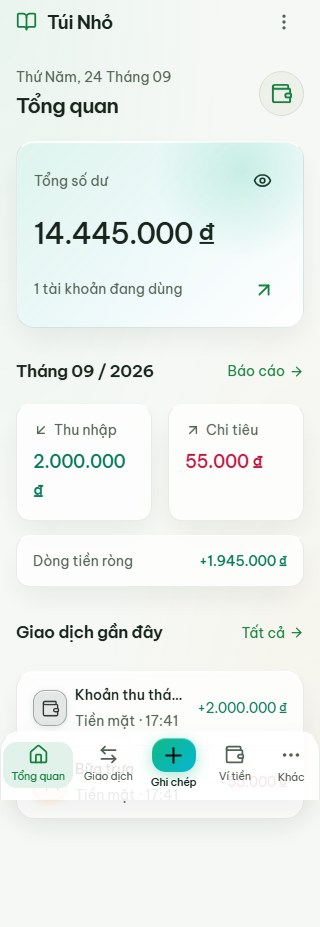
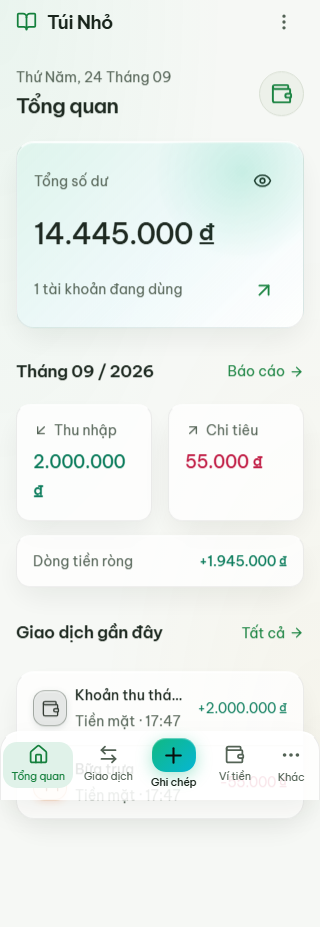
fix(select): fix backdrop dismiss on edge-tap, bump v1.0.10

diff --git a/src/components/ui/SelectField.tsx b/src/components/ui/SelectField.tsx
@@ -187,9 +187,7 @@ export function SelectField({
       {open && (
         <div
           className="select-sheet-backdrop"
-          onPointerDown={(e) => {
-            if (e.target === e.currentTarget) closeSheet();
-          }}
+          onClick={() => closeSheet()}
           role="presentation"
         >
           <div
@@ -197,6 +195,7 @@ export function SelectField({
             role="dialog"
             aria-modal="true"
             id={sheetId}
+            onClick={(e) => e.stopPropagation()}
           >
             <div className="select-sheet-handle" />
             <div className="select-sheet-header">

diff --git a/docs/releases/v1.0.10.md b/docs/releases/v1.0.10.md
@@ -1,0 +1,10 @@
+# Release v1.0.10
+
+## Fixes
+
+- **Fix bấm ngoài để đóng SelectField sheet** — Bấm vào vùng tối bên ngoài bottom sheet (ví chọn, loại giao dịch, danh mục...) giờ luôn đóng đúng, kể cả khi bấm vào mép, handle bar hay vùng rìa
+- **Fix vuốt Back đóng sheet thay vì về tổng quan** — Android Back button giờ chỉ đóng sheet đang mở, không navigate ra ngoài
+- **Fix SelectField nháy khi bấm** — Loại bỏ double-fire giữa native select và visual trigger
+- **Fix danh mục nháy/phải giữ mới chọn được** — Thêm `touch-action: manipulation` và `-webkit-tap-highlight-color: transparent`
+- **Label filter 1 dòng** — Truncate ellipsis, không xuống dòng
+- **Gọn label "Tất cả"** — Thay "Tất cả loại / ví / danh mục" thành "Tất cả"
